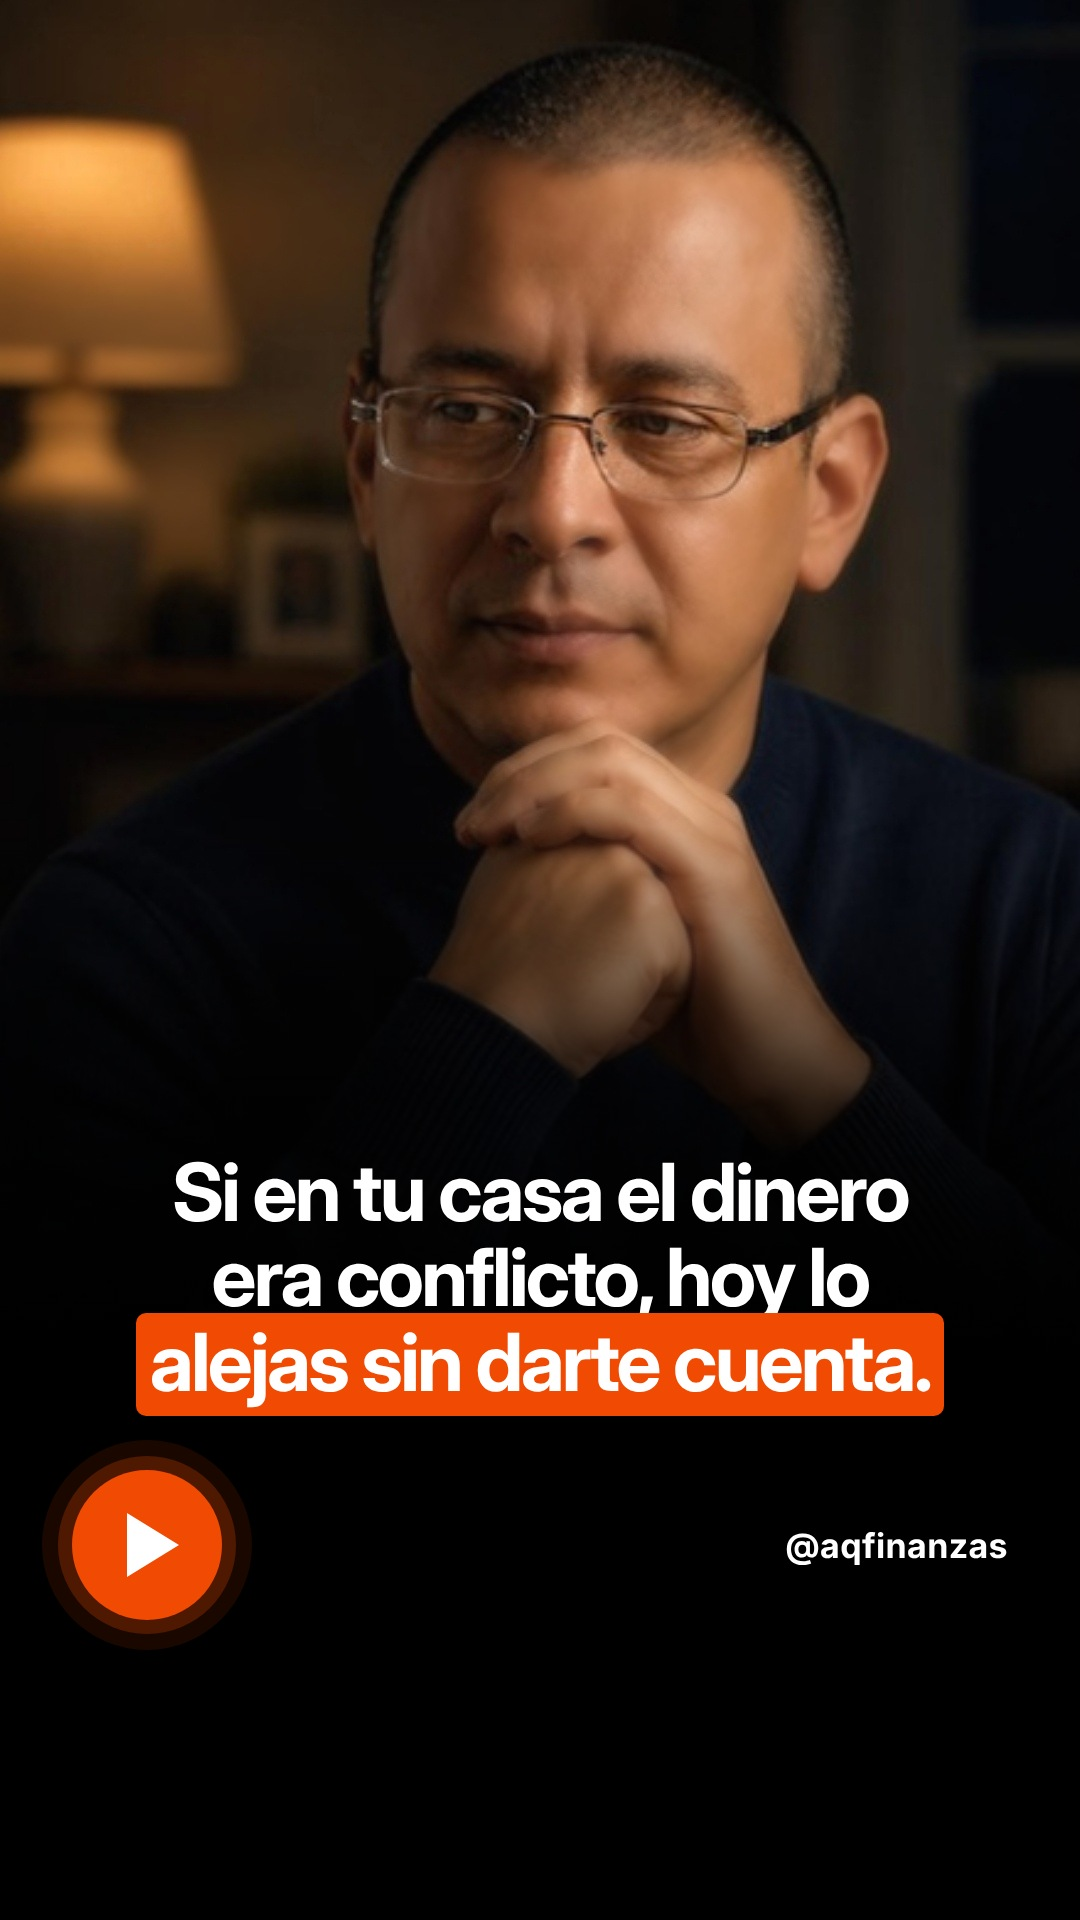
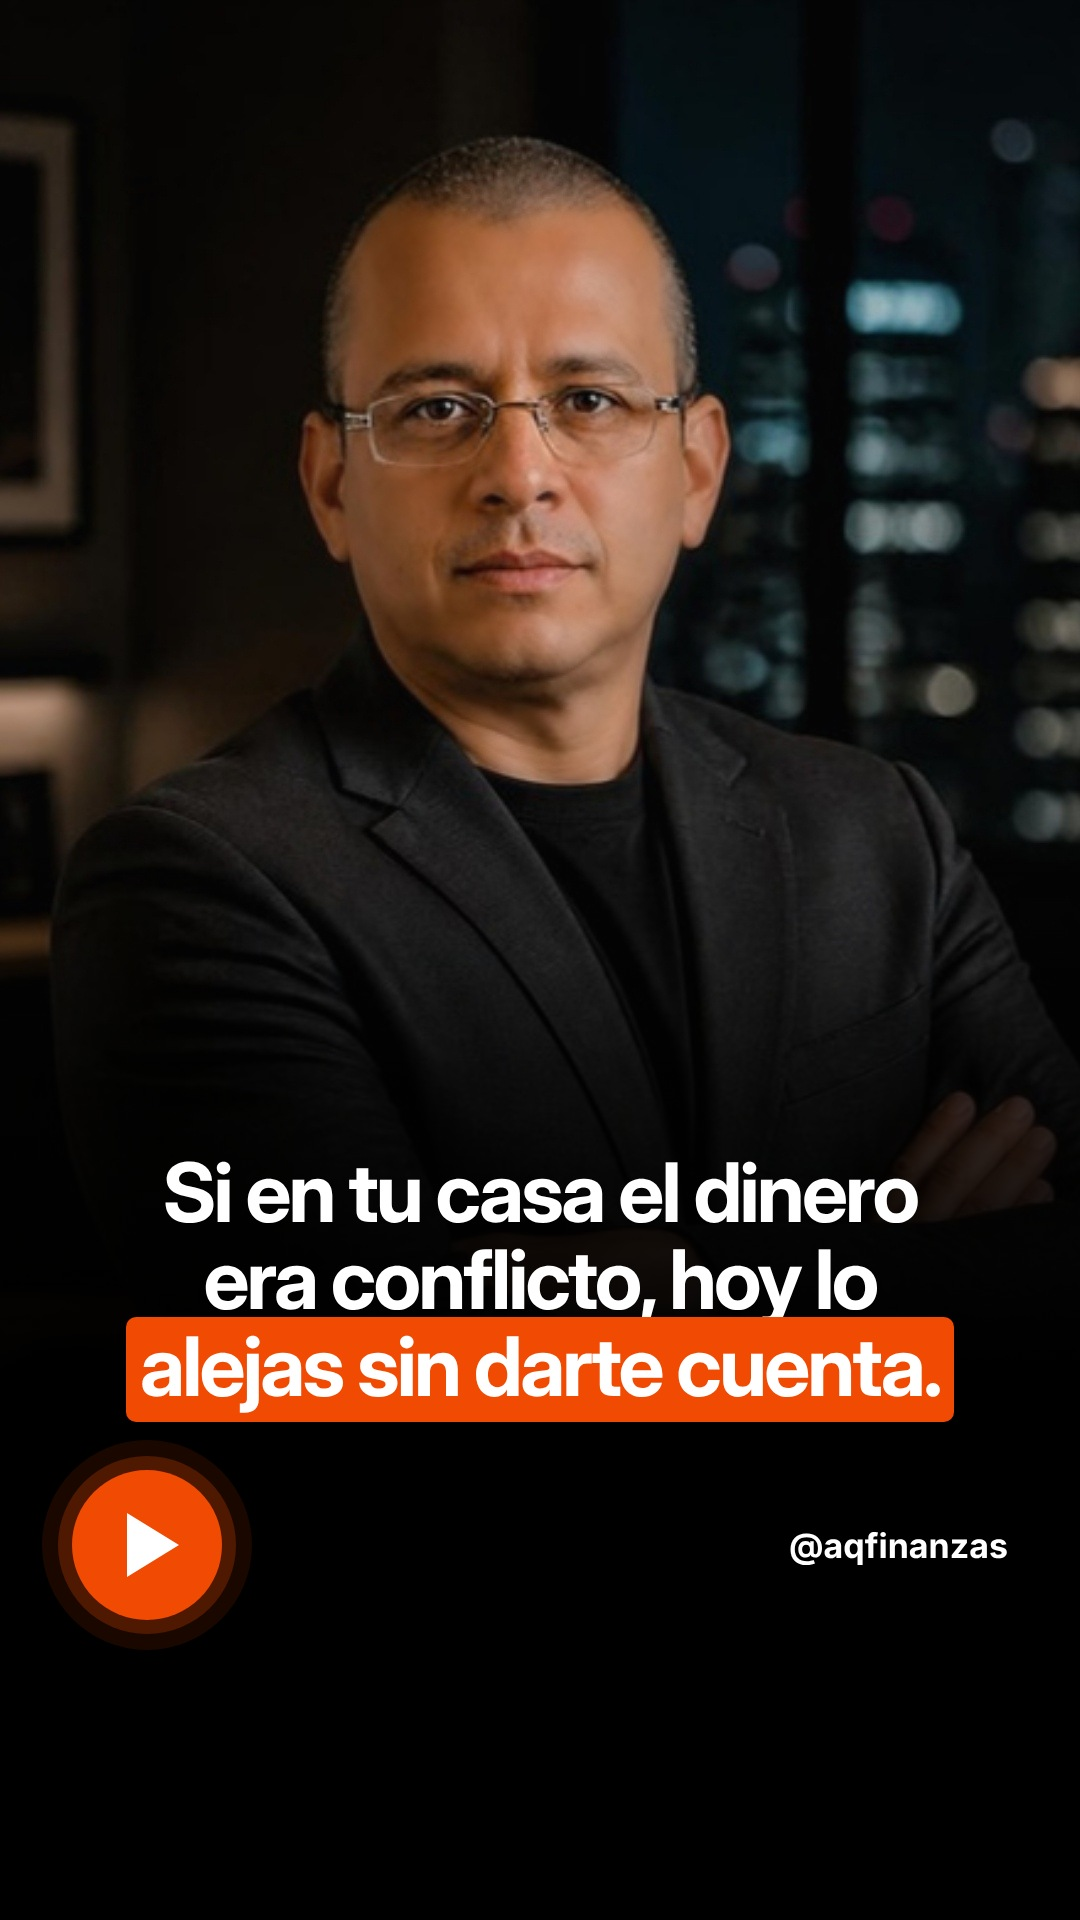
Portada final reel mentalidad (opción 1)
Claude-Session: https://claude.ai/code/session_018VZt1sRQqvoo63kcr5NoPx

diff --git a/publicaciones/2026-10-16-reel-mentalidad/portada.html b/publicaciones/2026-10-16-reel-mentalidad/portada.html
@@ -1,12 +1,11 @@
 <meta charset='utf-8'><style>*{margin:0;padding:0;box-sizing:border-box}
 html,body{width:1080px;height:1920px;overflow:hidden;background:#000}
 .bg{position:absolute;inset:0;width:1080px;height:1920px;object-fit:cover}
-.shade{position:absolute;inset:0;background:linear-gradient(180deg,#0000 0%,#0000 42%,#000000a0 56%,#000 72%)}
-.t{position:absolute;left:70px;right:70px;top:1150px;text-align:center;color:#fff;font:700 80px/1.06 'Inter Display','Inter';letter-spacing:-.035em}
-.hl{background:#F04A03;color:#fff;padding:0 14px 6px;border-radius:10px}
+.shade{position:absolute;inset:0;background:linear-gradient(180deg,#0000 0%,#0000 42%,#000000a8 56%,#000 72%)}
+.t{position:absolute;left:66px;right:66px;text-align:center;color:#fff;font:700 82px/1.06 'Inter Display','Inter';letter-spacing:-.035em}
+.o{color:#F04A03}
+.hl{background:#F04A03;color:#fff;padding:0 14px 6px;border-radius:10px;-webkit-box-decoration-break:clone;box-decoration-break:clone}
+.pill{display:inline-block;background:#fff;color:#000;border-radius:40px;padding:6px 36px 12px;font:700 56px/1.05 'Inter Display';margin-top:16px}
 .bigplay{position:absolute;left:72px;top:1470px;width:150px;height:150px;border-radius:50%;background:#F04A03;display:grid;place-items:center;box-shadow:0 0 0 14px #F04A0340,0 0 0 30px #F04A031c,0 24px 50px #000a}
 .bigplay span{width:0;height:0;border-top:32px solid transparent;border-bottom:32px solid transparent;border-left:52px solid #fff;margin-left:12px}
-.handle{position:absolute;right:72px;top:1525px;font:700 34px Inter;color:#fff;letter-spacing:.01em}
-</style><img class="bg" src="file:///tmp/claude-0/-home-claude/f5b061fa-33f0-56de-bfa7-bfec43b85715/scratchpad/r3/gen2_soft.jpg"><div class="shade"></div>
-<div class="t">Si en tu casa el dinero<br>era conflicto, hoy lo<br><span class="hl">alejas sin darte cuenta.</span></div>
-<div class="bigplay"><span></span></div><div class="handle">@aqfinanzas</div>
+.handle{position:absolute;right:72px;top:1525px;font:700 34px Inter;color:#fff}</style><img class='bg' src='file:///tmp/claude-0/-home-claude/f5b061fa-33f0-56de-bfa7-bfec43b85715/scratchpad/r3/gen3_soft.jpg'><div class='shade'></div><div class='t' style='top:1150px'>Si en tu casa el dinero<br>era conflicto, hoy lo<br><span class="hl">alejas sin darte cuenta.</span></div><div class='bigplay'><span></span></div><div class='handle'>@aqfinanzas</div>
